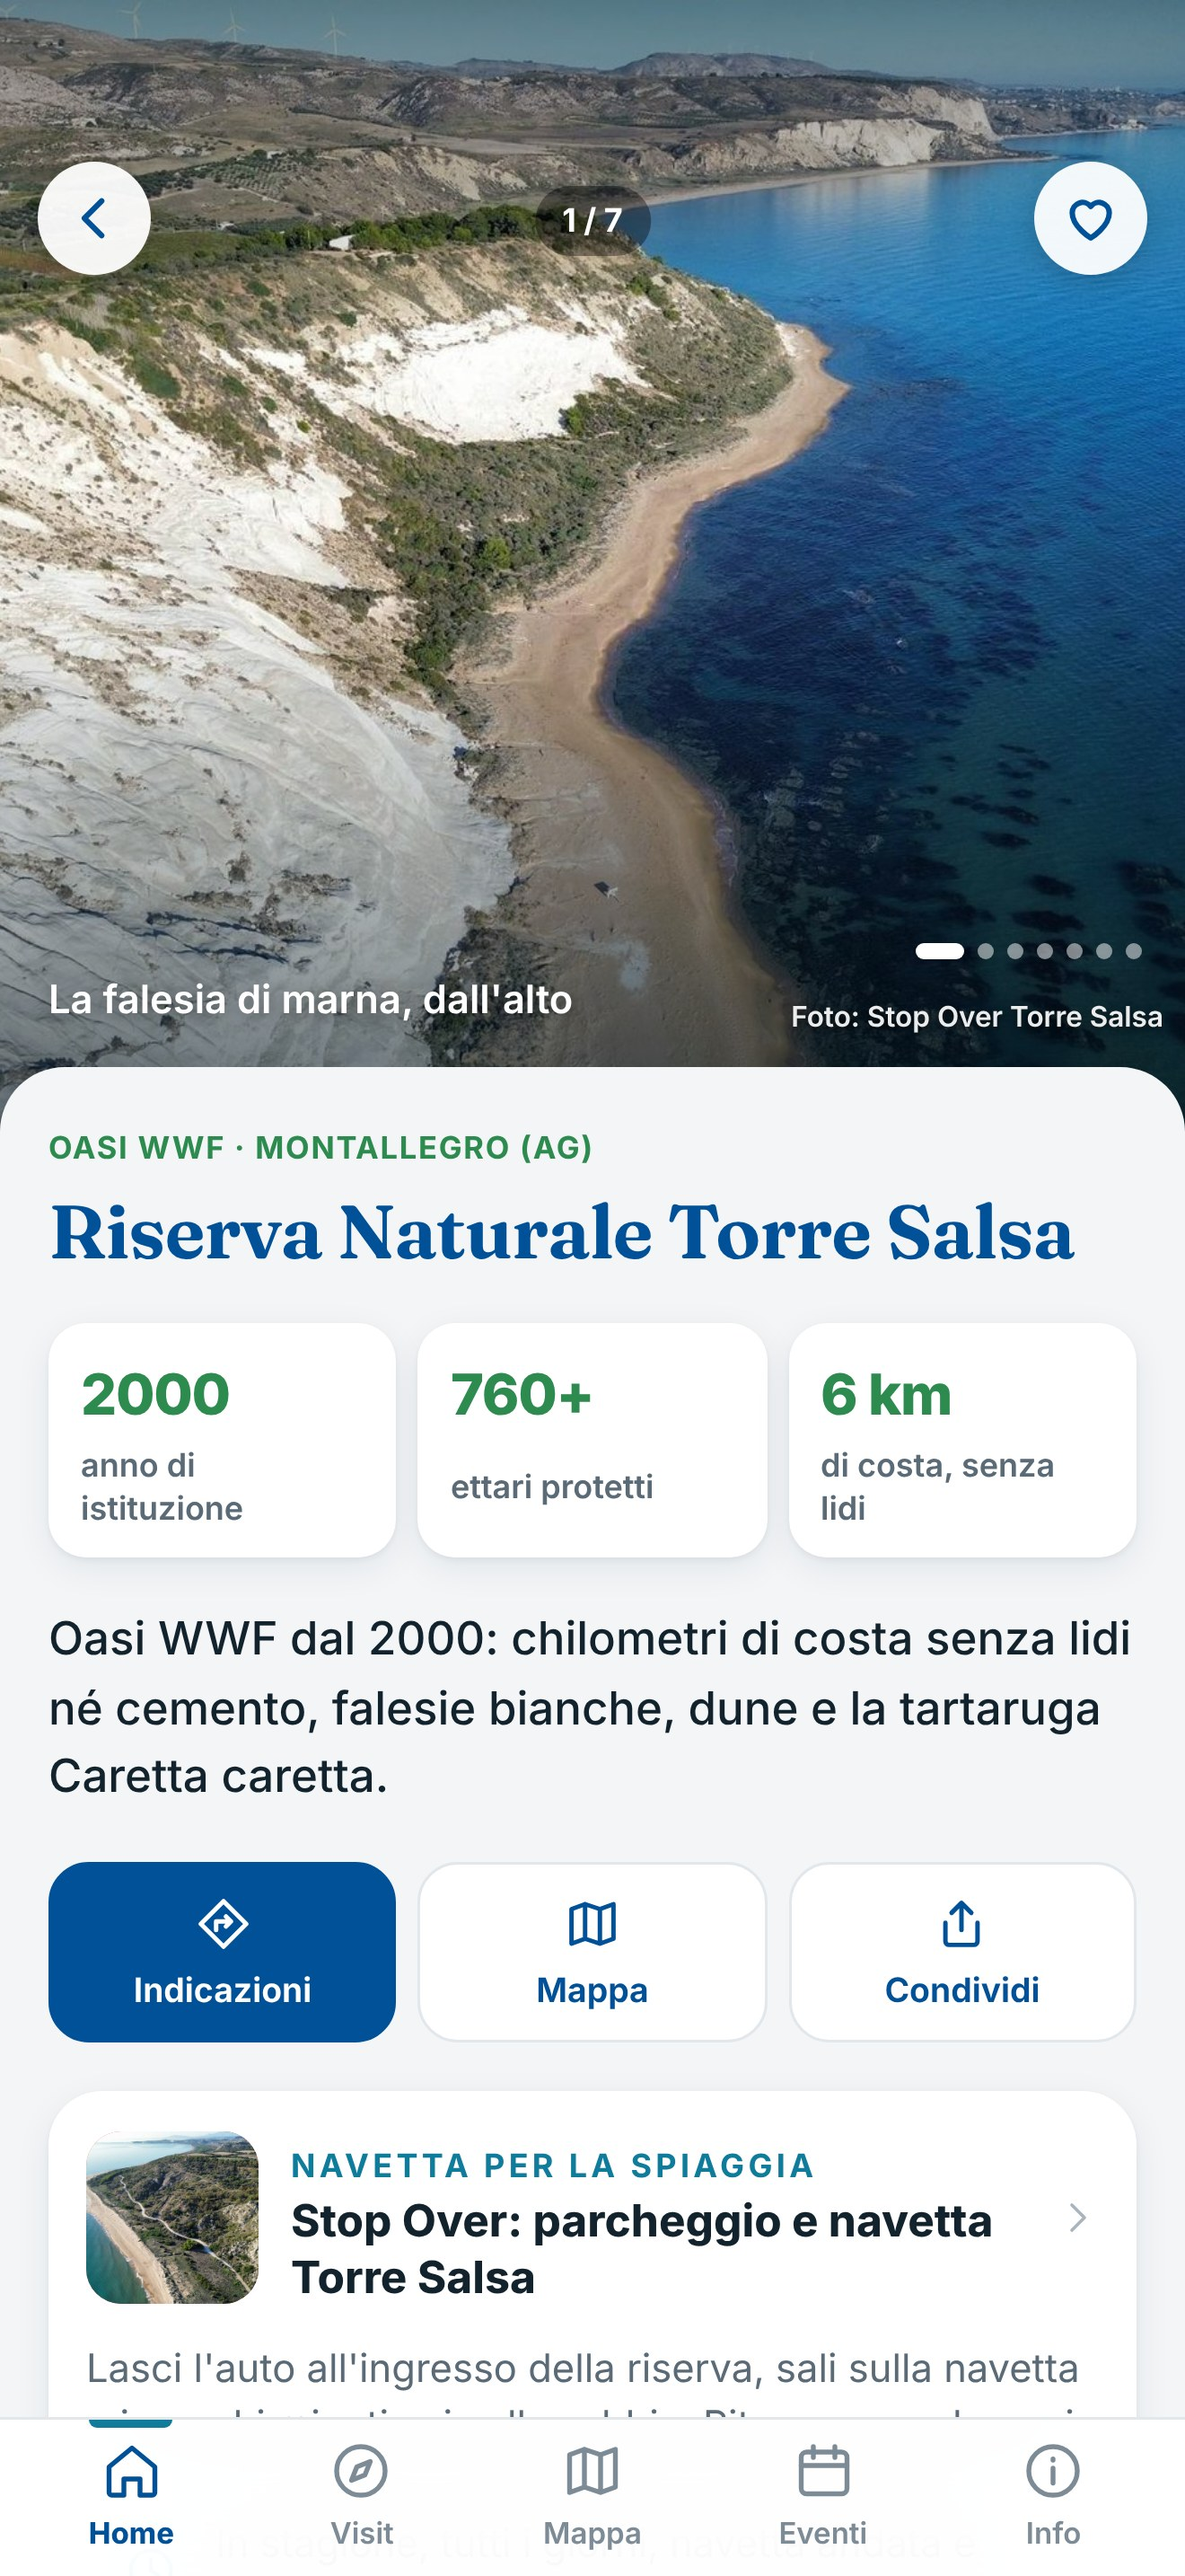
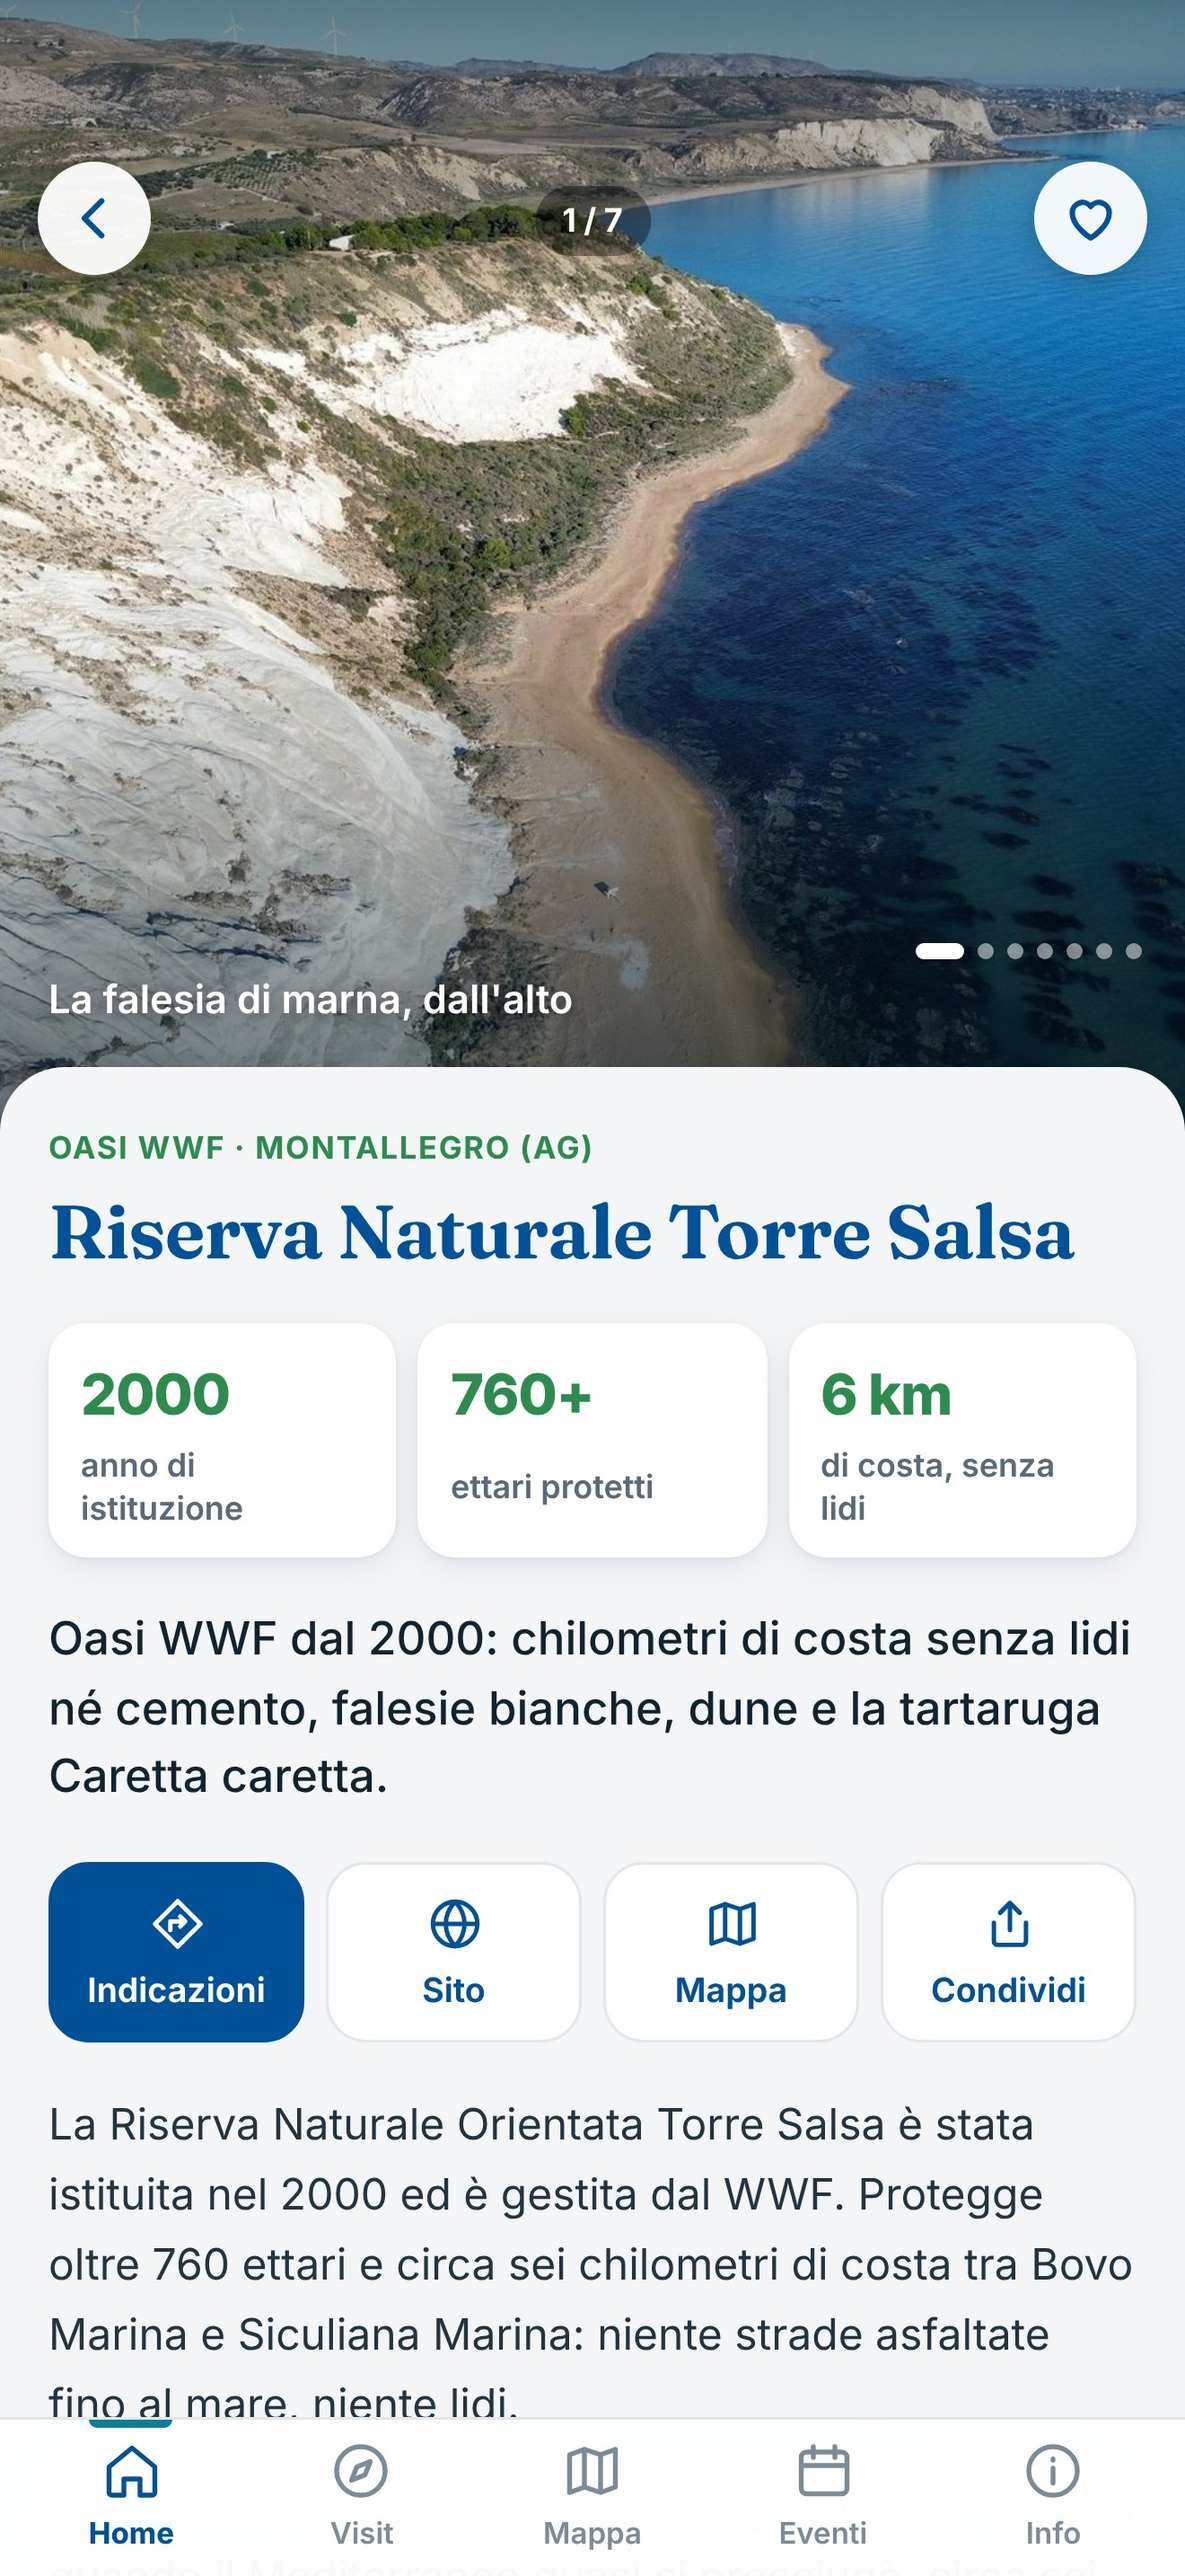
Versione web online, QR code e screenshot per gli store
- Workflow «Versione web»: a ogni modifica di www/ ricopia la cartella
  sul ramo gh-pages, pubblicato da GitHub Pages
- WEB_URL in config.js: «Condividi l'app» manda il link della versione
  web finché mancano gli store
- manifest con id relativo
- risorse/qr-web-app.png (cartolina A6 da stampare) e qr-web-app-solo.png
- Screenshot per gli store rifatti senza Stop Over
- LEGGIMI: come attivare GitHub Pages e usare un dominio vostro

Claude-Session: https://claude.ai/code/session_01X37gALbBpqWwtJJTbgkhhA

diff --git a/www/js/app.js b/www/js/app.js
@@ -1243,7 +1243,7 @@
           (az.length ? '<div class="voce-azioni">' + az.join('') + '</div>' : '') + '</div>';
       }).join('') + '</div></section>';
     });
-    var store_ = CFG.APP_STORE_URL || CFG.PLAY_STORE_URL;
+    var store_ = CFG.APP_STORE_URL || CFG.PLAY_STORE_URL || CFG.WEB_URL;
     var link = function (href, icona, nome) { return '<a class="voce voce-link" href="' + href + '">' + ic(icona) + '<span class="voce-nome">' + esc(nome) + '</span>' + ic('chevron', false, 'freccia') + '</a>'; };
     var pratiche = '<section class="gruppo"><h2>' + t('infoPraticheTitolo') + '</h2><div class="voci">' +
       link('#servizi', 'shop', t('serviziTitolo')) + link('#trasporti', 'bus', t('comeArrivare')) + link('#meteo', 'sun', t('meteo')) +
@@ -1592,7 +1592,7 @@
       var e = (DATA.eventi || []).filter(function (x) { return x.id === id; })[0];
       if (e) condividi(tx(e.titolo), intervallo(e) + ' · ' + tx(e.luogo) + '\n' + tx(e.testo), CFG.PORTALE || '');
     } else if (az === 'condividi-app') {
-      condividi(NOME_APP, t('scoprila'), [CFG.APP_STORE_URL, CFG.PLAY_STORE_URL].filter(Boolean).join('\n'));
+      condividi(NOME_APP, t('scoprila'), [CFG.APP_STORE_URL, CFG.PLAY_STORE_URL].filter(Boolean).join('\n') || CFG.WEB_URL);
     } else if (az === 'indietro') {
       indietro();
     } else if (az === 'vedi-mappa') {

diff --git a/www/js/config.js b/www/js/config.js
@@ -16,6 +16,9 @@ window.MONTALLEGRO_CONFIG = {
   PORTALE: 'https://visitmontallegrobovomarina.it',
   PRIVACY: 'privacy.html',
 
+  // Versione web (GitHub Pages): si apre da qualsiasi telefono; finché mancano gli store, "Condividi l'app" manda questo link
+  WEB_URL: 'https://scalia98.github.io/Visitmontallegro/',
+
   // Dopo la pubblicazione: link agli store, usati dal tasto "Condividi l'app"
   APP_STORE_URL: '',
   PLAY_STORE_URL: '',

diff --git a/www/sw.js b/www/sw.js
@@ -1,5 +1,5 @@
 /* Visit Montallegro Bovo Marina — funzionamento offline per la versione web (nell'app installata i file sono già sul telefono) */
-const CACHE = 'visit-montallegro-v9';
+const CACHE = 'visit-montallegro-v10';
 const FILES = [
   './', 'index.html', 'css/app.css', 'js/config.js', 'js/app.js', 'data/contenuti.json',
   'vendor/leaflet/leaflet.js', 'vendor/leaflet/leaflet.css', 'vendor/capacitor/capacitor.js',

diff --git a/LEGGIMI.md b/LEGGIMI.md
@@ -87,11 +87,16 @@ L'app, a ogni apertura, scarica `www/data/contenuti.json` dal repository GitHub 
 
 ---
 
-## Provarla subito sul telefono
+## Versione web (online subito, gratis)
 
-Carica il contenuto della cartella `www/` su SiteGround (per esempio un sottodominio `app.visitmontallegrobovomarina.it` con HTTPS) e aprilo dal telefono.
+L'app è online anche come web app su **https://scalia98.github.io/Visitmontallegro/** (GitHub Pages). Il QR code da stampare è `risorse/qr-web-app.png`.
+- **Attivarla, una volta sola**: su GitHub apri il repository → Settings → Pages → Build and deployment → Source «Deploy from a branch» → Branch `gh-pages`, cartella `/ (root)` → Save. Dopo un paio di minuti l'indirizzo funziona.
+- **Aggiornamenti**: i contenuti arrivano da soli da `contenuti.json`; quando cambia il codice in `www/`, il workflow «Versione web» (`.github/workflows/versione-web.yml`) ricopia la cartella sul ramo `gh-pages`.
+- **Dominio vostro (facoltativo)**: per usare `app.visitmontallegrobovomarina.it`, nel DNS del dominio aggiungi un record CNAME `app` → `scalia98.github.io` e scrivi lo stesso indirizzo in Settings → Pages → Custom domain. Il vecchio indirizzo (e il QR già stampato) rimanda da solo a quello nuovo.
 - **iPhone**: Safari → Condividi → Aggiungi alla schermata Home. Funziona tutto tranne il menu a pressione prolungata, che Apple concede solo alle app dello store.
 - **Android**: Chrome → Installa app. Qui anche la versione web ha le scorciatoie.
+- In alternativa puoi caricare la cartella `www/` sul vostro hosting (per esempio SiteGround, con HTTPS).
+- La privacy (`privacy.html`) è online su https://scalia98.github.io/Visitmontallegro/privacy.html: è l'indirizzo da dare agli store.
 
 ---
 
